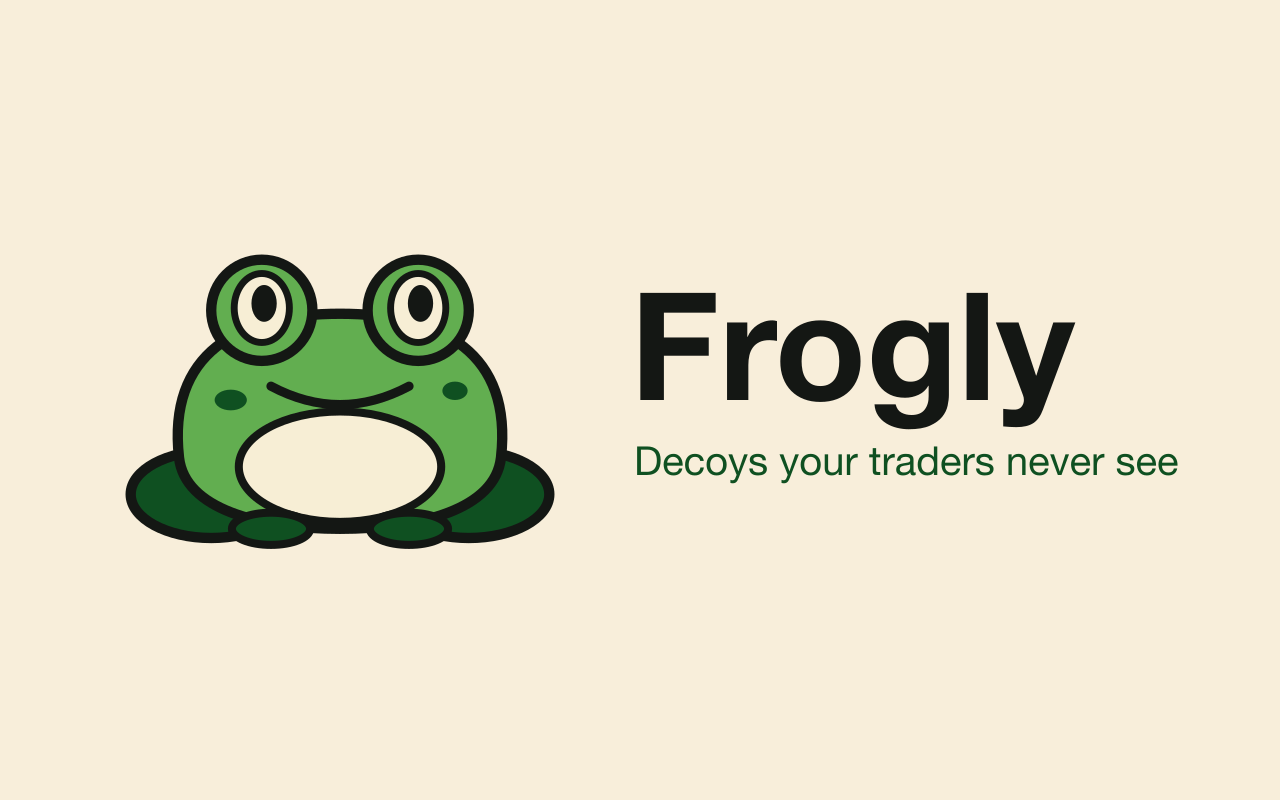
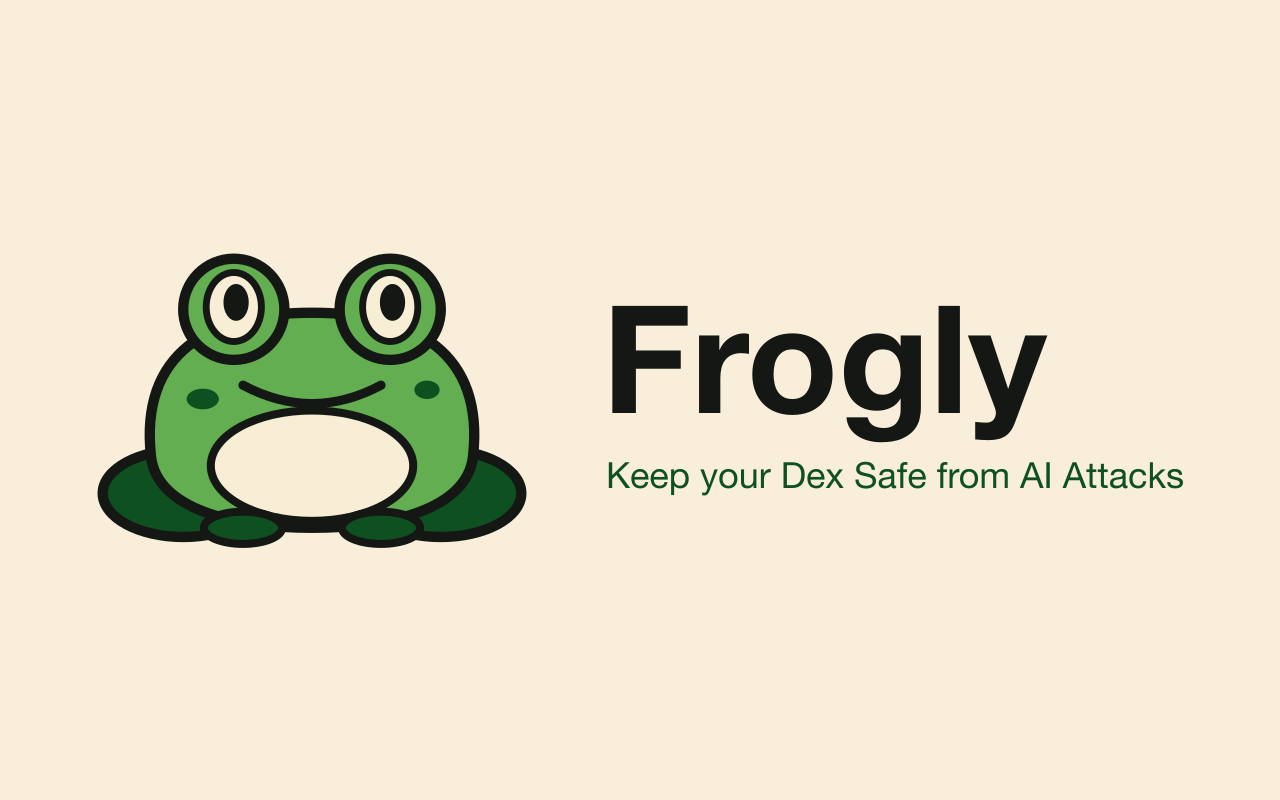
Centre the covers, add the frog to cover 2, tighten the usagePrompt
Cover 1 now reads "Keep your Dex Safe from AI Attacks". The cover script
places each group from its rendered pixels and fails unless the margins are
equal and the edges are flat background. A test keeps the usagePrompt between
1,000 and 1,200 characters.

Changed region(s): [[0.0625, 0.3125, 0.4375, 0.6875], [0.4688, 0.3438, 0.9375, 0.625]]

diff --git a/test/plugin.test.tsx b/test/plugin.test.tsx
@@ -277,3 +277,11 @@ describe("the settings form (configSchema.json)", () => {
     );
   });
 });
+
+describe("the Marketplace usagePrompt (.orderly-manifest.json)", () => {
+  it("is 1,000 to 1,200 characters long", () => {
+    const manifest = JSON.parse(readRoot(".orderly-manifest.json")) as { usagePrompt: string };
+    expect(manifest.usagePrompt.length).toBeGreaterThanOrEqual(1000);
+    expect(manifest.usagePrompt.length).toBeLessThanOrEqual(1200);
+  });
+});
